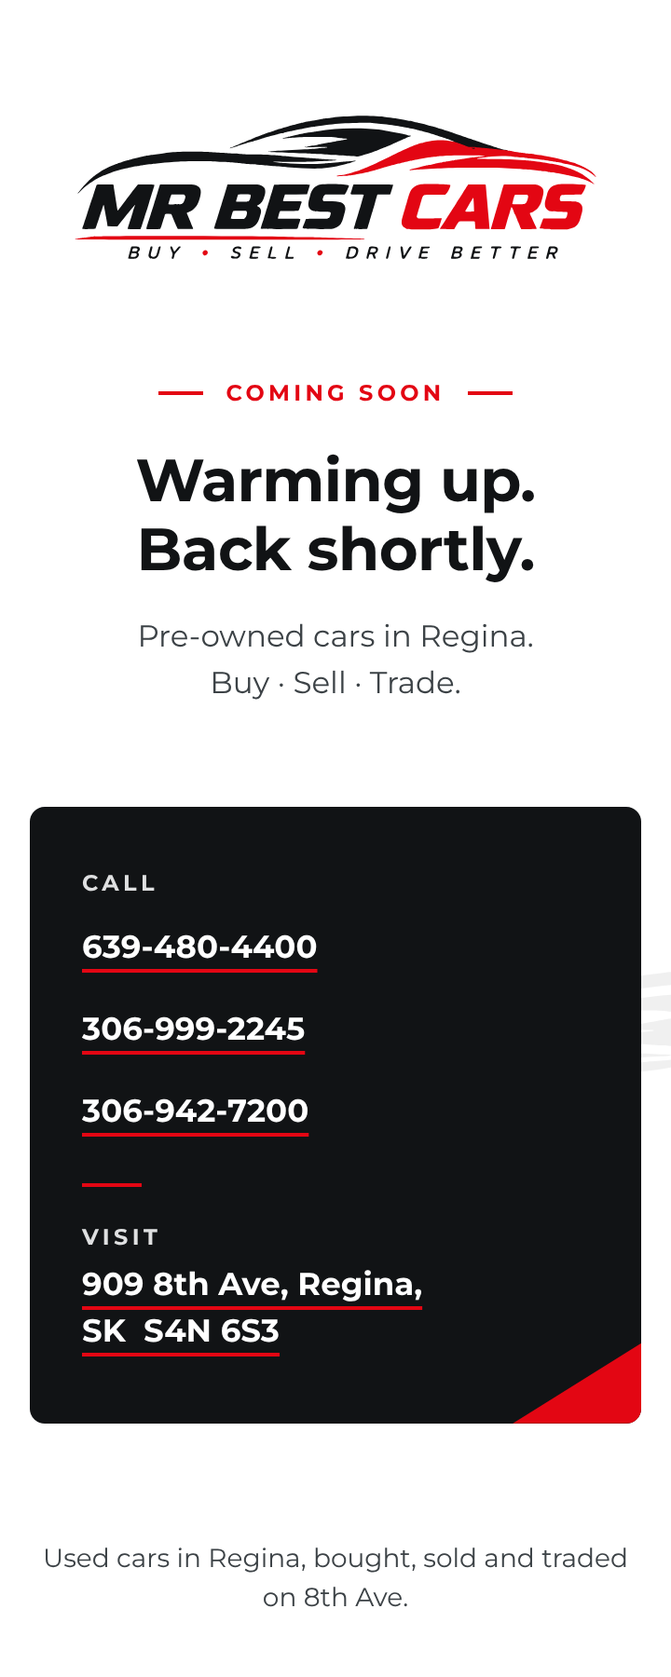
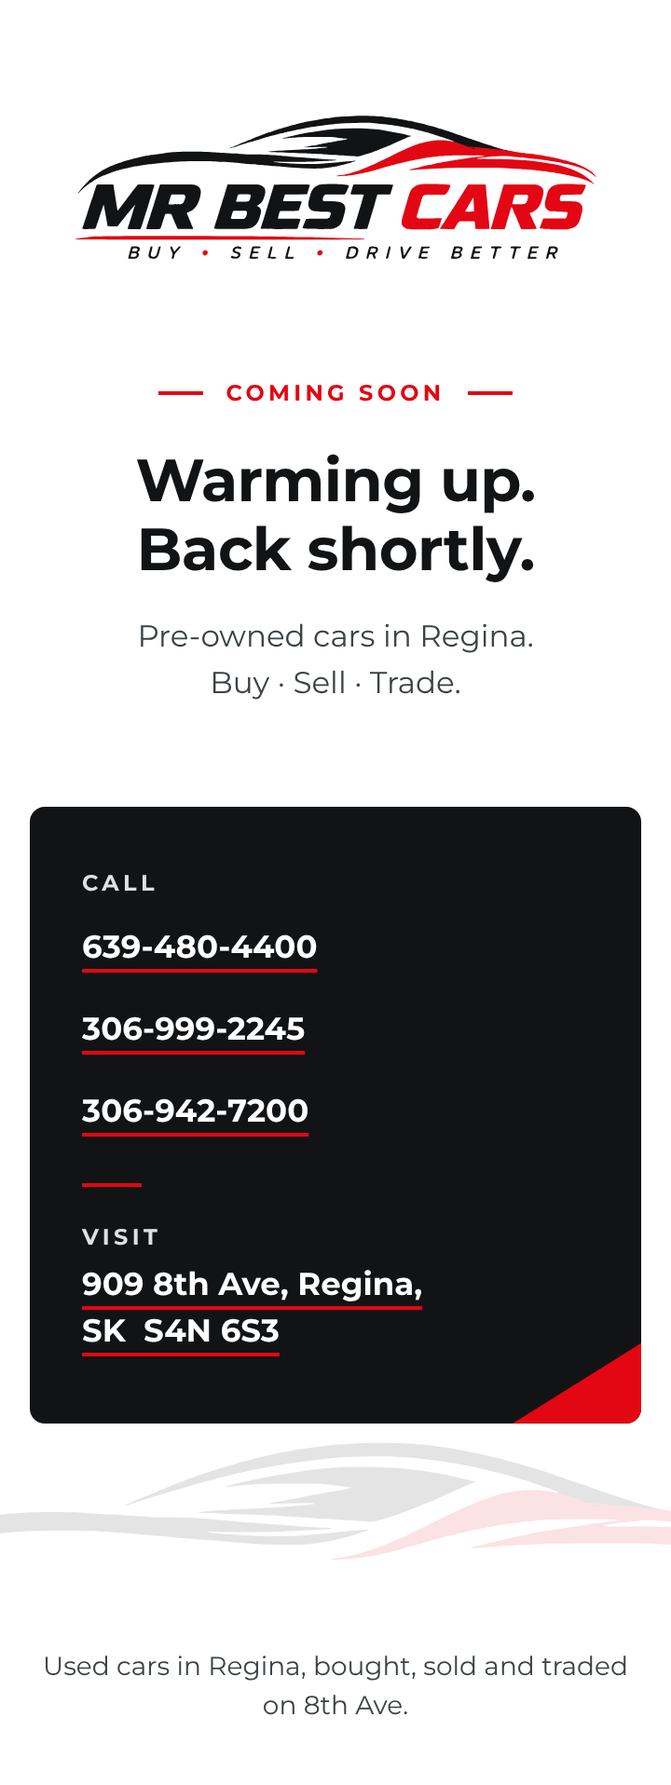
Preview: anchor sedan mark to contact card so it shows on phones
Claude-Session: https://claude.ai/code/session_0111nycAP5oJUybwEeT2RRwK

diff --git a/site/swym/preview-bg/index.html b/site/swym/preview-bg/index.html
@@ -50,11 +50,13 @@ h1{margin-top:20px;max-width:16ch;font-size:clamp(2rem,1.6rem + 1.6vw,2.5rem);fo
 .links a:hover{text-decoration-color:var(--white)}
 a:focus-visible{outline:2px solid var(--white);outline-offset:3px;border-radius:4px}
 footer{padding:0 16px 32px;text-align:center;color:var(--slate);font-size:.875rem}
-body{position:relative}
-.bg-art{position:absolute;inset:0;z-index:0;overflow:hidden;pointer-events:none}
-.bg-sedan{position:absolute;width:min(1180px,88vw);height:auto;right:-30vw;bottom:clamp(120px,14vh,180px);opacity:.07}
-.site-header,main,footer{position:relative;z-index:1}
-@media (max-width:767px){.bg-sedan{width:150vw;right:-75vw;bottom:auto;top:520px;opacity:.06}}
+main{overflow:hidden}
+.card-wrap{position:relative;width:100%;max-width:460px;margin-top:clamp(40px,7vh,64px)}
+.card-wrap .card{margin-top:0}
+.bg-sedan{position:absolute;z-index:-1;pointer-events:none;height:auto;opacity:.08;width:1100px;left:52%;bottom:6%}
+.card{z-index:0}
+main{isolation:isolate}
+@media (max-width:767px){main{padding-bottom:120px}.bg-sedan{width:150vw;left:-30vw;bottom:-92px;opacity:.11}}
 .veil{display:none}
 html.intro .veil{display:block;position:fixed;inset:0;z-index:10;background:var(--white);animation:mbc-out .4s 2.5s forwards}
 html.intro .site-header{position:relative;z-index:11}
@@ -72,7 +74,7 @@ html.intro #car-wipe-rect,html.intro #underline-wipe-rect{transform:scaleX(0);an
 </head>
 <body>
 <div class="veil" aria-hidden="true"></div>
-<div class="bg-art" aria-hidden="true"><svg class="bg-sedan" viewBox="0 0 1138 172" aria-hidden="true" focusable="false"><path class="k" d="M7.2 165.4C12.4 160.2 19.2 154.3 24.5 150.6C29.3 147.2 37 142 37.3 142C37.5 142 38.2 141.6 38.9 141.1C40.2 140.2 44.2 137.9 48 135.9C49 135.4 51 134.5 52.6 133.8C54.2 133.1 56.7 132 58.1 131.3C59.6 130.7 61.5 129.9 62.5 129.5C63.5 129.2 64.7 128.7 65.2 128.5C65.8 128.3 67.5 127.6 69.1 127C70.7 126.5 73.2 125.6 74.6 125C79.8 123.1 92.8 119.3 100 117.5C103.5 116.6 114.8 114.1 117.8 113.5C119.4 113.2 121.7 112.7 122.8 112.5C123.8 112.2 126.2 111.8 128 111.5C129.8 111.2 133.2 110.6 135.5 110.2C137.8 109.8 141.7 109.2 144 108.9C148.7 108.4 152.4 107.9 157.8 107C162.8 106.2 169 105.5 183.2 104C193.7 102.9 208 101.8 222.8 100.9C237.1 100.1 286.7 99.8 296.8 100.5C301.4 100.8 311.1 101.4 318.2 101.8C330.8 102.6 333.4 102.8 348 103.9C351.7 104.2 357.9 104.7 361.8 105C365.6 105.3 370.9 105.8 373.5 106C376.1 106.3 380.7 106.7 383.8 107C386.8 107.3 391.5 107.7 394.2 108C410 109.5 412.2 109.6 429.8 111C438.2 111.6 453.7 112.9 460.5 113.5C490.6 116.1 525.2 117 539.8 115.6C553.3 114.2 561.5 113.1 568.8 111.5C579.6 109.1 588.4 106.8 594 104.9C595.6 104.4 597.1 104 597.4 104C597.7 104 599 103.6 600.1 103C602.5 101.9 608.4 100 609.3 100C609.6 100 610 99.7 610.1 99.4C610.3 98.9 609.1 98.9 604.1 99.4C600.6 99.7 594.4 100.2 590.2 100.5C586.1 100.8 581.1 101.3 579 101.5C568.1 102.9 560.5 103.7 554 104.1C550 104.3 544.6 104.7 542 105C520.1 106.9 483.1 106.6 455.8 104.3C453.8 104.1 448.5 103.8 444 103.5C434.8 102.9 429 102.1 429 101.3C429 101 432.1 101 437.9 101.3C451.1 102 491.1 101.8 508.2 101.1C516.5 100.7 528.8 100.2 535.5 100C552.5 99.4 566 98.6 567.8 98.1L569.2 97.6L568 97.3C567.3 97.2 564.3 96.9 561.2 96.8C550.4 96.3 537.1 95.5 531 95C527.6 94.7 521.5 94.3 517.5 94C513.5 93.7 507.3 93.3 503.8 93C490 91.9 479.9 91.1 465 90C461.8 89.8 456.7 89.3 453.5 89.1C450.3 88.8 445.1 88.3 441.8 88C438.4 87.7 433.4 87.3 430.5 87C417.1 85.7 409.3 85.3 390.2 85.2C379 85.2 366.6 84.9 362.8 84.6C358.9 84.3 351.9 83.8 347.2 83.5C342.6 83.2 335.1 82.8 330.8 82.5C326.4 82.2 321.2 81.9 319.2 81.8C313.9 81.5 299.2 80.6 290.2 80C276.9 79.1 246.4 78.8 231.2 79.4C213.7 80.2 205.9 80.8 190.2 82.5C183.4 83.3 168.4 85.4 162 86.5C156.1 87.5 147.7 89.1 145.8 89.5C142.3 90.2 139.4 90.9 136.5 91.5C133.8 92 132.2 92.4 128 93.5C126.8 93.8 124.9 94.3 123.9 94.5C119.3 95.7 118 96 114.5 97C112.4 97.6 110 98.3 109 98.5C103.1 100.1 88.7 104.8 87.4 105.5C86.9 105.8 86.2 106 85.8 106C85.3 106 84.6 106.2 84.1 106.5C82.9 107.1 80.1 108.3 77.5 109.3C68.6 112.6 56 119.2 47 125.4C37.7 131.8 37.6 131.9 29.3 139C26.1 141.7 16.2 151.9 12.5 156.2C1.6 169.3 0.3 171 1.4 171C1.6 171 4.2 168.5 7.2 165.4ZM617.2 89.5C618.3 89.2 620.1 88.7 621.2 88.4C623.4 87.9 629.5 86.2 631.5 85.5C632.2 85.3 634.4 84.6 636.5 84C641.1 82.6 656.1 77.1 662.2 74.5C662.8 74.2 664.4 73.7 665.8 73.2C667.1 72.8 669 72.1 669.9 71.7C670.8 71.3 672.3 70.6 673.4 70.2C674.4 69.8 675.9 69.1 676.7 68.7C677.5 68.3 678.4 68 678.6 68C678.9 68 680.5 67.4 682.2 66.6C685.1 65.2 687 64.4 691 62.6C692 62.2 694.6 61 696.8 59.9C699.1 58.9 701 58 701.2 58C701.4 58 703.2 57.2 705.1 56.3C707.1 55.4 709.8 54.1 711.1 53.6C715.7 51.5 718 50.5 720.2 49.5C721.4 49 724.1 48 726.3 47.2C728.5 46.5 730.6 45.8 730.9 45.7C732.1 45.3 730.6 44 729 44C728.2 44 726.2 43.6 724.6 43.2C723.1 42.8 721 42.2 720 42C719 41.8 716.3 41.1 714 40.5C703.8 38.1 690.8 35.5 681 34C679.2 33.7 676.5 33.3 675 33C655.1 29.7 640 28.5 612.2 28.1C580.4 27.7 554.3 29.6 525.5 34.5C524 34.7 521 35.2 518.8 35.5C514.2 36.1 509.8 36.8 506.2 37.5C501.2 38.5 485.7 41.6 484 42C480.4 42.8 476.7 43.6 474.6 44.1C471.7 44.7 468.6 45.3 466.2 45.9C465.1 46.2 461.2 47 457.5 47.8C451.1 49.1 449.5 49.6 450.1 50.3C450.3 50.4 453.5 50.2 457.3 49.8C464.2 49 469.7 48.6 486.8 47.4C492.5 47 506.5 46.8 525 46.8C556.8 46.8 561.4 47 577.8 49.5C579.4 49.7 583.2 50.2 586.1 50.6C589.1 50.9 591.5 51.3 591.5 51.5C591.5 51.8 588.5 52.5 580.8 54C579.6 54.2 576.5 54.7 573.8 55.2C571 55.6 567.7 56.2 566.5 56.5C563.9 57.1 556.4 58.4 552.5 59C551 59.2 546.8 60 543.2 60.7C539.7 61.4 535 62.4 532.8 62.8C530.5 63.3 527.7 63.8 526.5 64.1C524 64.6 519.7 65.3 515.2 66C513.6 66.2 511.2 66.7 510 67C508.8 67.3 506 67.8 503.8 68.2C501.7 68.6 499.8 69.1 499.6 69.2C498.8 70 500.9 70.1 510.4 69.6C523.1 68.9 549.5 68.8 549.5 69.5C549.5 70.1 547.5 70.4 539.2 71C535.4 71.3 530.3 71.7 528 72C516.4 73.3 508 73.9 481.5 75C451.3 76.4 437.4 77.2 421.9 78.8C416.4 79.3 418 80 424.9 80C428.4 80 436 80.2 441.8 80.5C457.7 81.3 487.2 82.5 497.2 82.8C502.2 82.9 507.9 83.2 509.9 83.5C511.9 83.8 515.2 84 517.3 84C519.3 84 523.7 84.2 527.1 84.5C530.5 84.7 537.6 85.2 543 85.5C548.4 85.8 555.8 86.3 559.5 86.5C563.2 86.8 570 87.2 574.5 87.5C579 87.8 586.4 88.2 590.8 88.5C616.2 90.2 614.7 90.1 617.2 89.5ZM942.2 77.7C943.6 77.1 943 76.1 941.1 75.8C937 75.2 933.5 74.5 929.7 73.3C927.5 72.6 925.5 72 925.1 72C924.8 72 922.9 71.5 921.1 70.9C915.8 69.3 908.8 67 907.8 66.5C907.2 66.3 905.2 65.6 903.2 65.1C898.8 63.7 871.8 54.8 868.9 53.7C867.7 53.3 866.3 52.7 865.8 52.5C865.2 52.3 862.6 51.4 860 50.5C857.4 49.7 854.8 48.8 854.2 48.5C853.3 48.1 842.9 44.5 827 39.2C823.3 38 819.8 36.8 819.2 36.5C818 36 801.1 30.5 796 29.1C793.9 28.4 790.1 27.3 787.5 26.5C784.9 25.7 781.4 24.7 779.8 24.2C778.1 23.8 776.1 23.2 775.2 23C774.4 22.8 772.3 22.2 770.5 21.8C768.7 21.3 765.8 20.5 764 20C759.5 18.7 757.2 18.1 754 17.5C752.5 17.2 750.6 16.7 749.8 16.5C748.3 16.1 744.4 15.2 736.2 13.2C734.3 12.8 731.6 12.2 730.2 12C728.9 11.8 725.3 11.1 722.2 10.5C702.3 6.6 693.2 5.2 672.8 3C656.9 1.2 625.9 0.3 607.5 1C584.9 1.9 566 3.3 555.2 5C553.3 5.3 549.5 5.8 546.8 6C544 6.3 540.4 6.7 538.8 7C537.1 7.3 534.5 7.7 533 8C529.9 8.5 526.5 9.2 522.8 10C521.4 10.3 518.7 10.7 516.8 11C514.8 11.2 512.7 11.6 512 11.7C510.4 12.1 507.6 12.8 504 13.5C502.5 13.8 499.4 14.5 497.2 15C495.1 15.5 491.9 16.2 490.2 16.5C488.6 16.8 486.7 17.3 486 17.5C485.3 17.7 483.6 18.2 482.2 18.5C480.9 18.8 479.3 19.3 478.8 19.5C477.8 19.9 472.8 21.1 468.8 22C467.6 22.2 465.3 22.9 463.5 23.5C461.7 24.1 458.7 25 456.8 25.5C444.1 29 437.8 30.9 431.8 33.1C430.6 33.5 428.1 34.4 426 35C423.9 35.7 422 36.4 421.8 36.6C421.5 36.8 420.9 37 420.5 37C420 37 418.5 37.4 417.2 38C415.8 38.5 413.5 39.4 412 39.9C410.5 40.5 406.8 41.8 403.8 43C400.7 44.2 396.4 45.8 394.2 46.6C392.1 47.4 389.7 48.3 389.1 48.5C388.5 48.8 387.5 49.2 386.9 49.4C386.3 49.7 384.6 50.4 383.2 51C380.4 52.3 379.5 52.6 377 53.5C376 53.8 374.4 54.5 373.2 55C370.2 56.4 364.2 58.9 362.8 59.5C362.2 59.7 361.1 60.1 360.4 60.4C359.6 60.7 358.5 61.2 357.9 61.4C357.3 61.7 355.9 62.3 354.8 62.8C351.4 64.2 349.3 65.1 348.2 65.5C347.7 65.7 345.2 66.8 342.7 67.9C340.1 69.1 337.9 70 337.6 70C336.9 70 334.5 71.2 334.5 71.6C334.5 72.4 336.1 71.9 346.4 68.6C364.5 62.6 374.4 59.5 381.8 57.4C382.9 57.1 385 56.5 386.5 56C388 55.5 390.1 54.9 391.2 54.6C393.8 53.9 399.4 52.2 403.2 51.1C404.9 50.6 407.3 49.9 408.5 49.5C409.7 49.1 411.8 48.5 413 48.1C414.2 47.7 417.7 46.8 420.8 46C423.8 45.2 427.9 44.1 430 43.6C437.4 41.6 445.8 39.4 447.8 39C448.9 38.7 451.4 38.1 453.5 37.6C455.6 37 458.5 36.3 460 35.9C461.5 35.5 464.1 34.9 465.8 34.5C467.4 34.2 470.6 33.5 472.8 33C480.2 31.3 484.7 30.4 487.2 30C488.6 29.8 491.4 29.3 493.5 28.9C495.6 28.4 499.8 27.6 503 27.1C506.2 26.5 510.9 25.7 513.5 25.2C516.1 24.8 519.9 24.2 522 23.9C524.1 23.7 527.3 23.3 529.2 23C536.1 22 539.8 21.5 543.8 21C546 20.7 549.5 20.3 551.8 20C571.1 17.5 587.4 16.5 612.5 16.1C631.3 15.9 636.9 16.1 656 17.5C665.4 18.2 690.3 21.1 698.8 22.5C704.2 23.4 711.7 24.6 714 25.1C715.2 25.3 717.5 25.7 719 26C724.7 27 726.9 27.4 732.8 28.7C741.7 30.7 743 31 745.8 31.8C748.1 32.5 752.8 33.6 759.2 35C762 35.6 764.2 36.2 768 37.5C769.8 38.1 772.9 39 775 39.6C781.4 41.2 798 46.5 800.2 47.5C800.8 47.8 804.1 48.9 807.5 50C810.9 51.2 814.2 52.3 814.8 52.5C816.1 53.1 820.9 54.8 823.1 55.6C825.1 56.2 825.6 57 824.1 57C822.3 57 825.2 58.5 830.5 60.2C837.5 62.5 842.6 64.4 849 67.1C857.6 70.7 857.3 70.7 860.5 70.3C862.8 70.1 863.5 70.2 863.5 70.6C863.4 71 863.4 71.5 863.4 71.9C863.5 72.8 866.5 74.5 868.1 74.5C870.1 74.5 873.4 73.1 873.7 72.1C874 71.1 874.9 71.1 890 72.3C898.9 73 901.7 73.3 911 74.5C915.3 75 917.7 75.3 930 76.7C933.7 77.2 937.6 77.5 938.6 77.4C939.6 77.4 940.6 77.5 940.8 77.7C941.2 78.1 941.2 78.1 942.2 77.7Z"/><path class="r" d="M1133 150.1C1133 149.5 1126.4 143.2 1121 138.7C1116.1 134.6 1106 127.8 1102 125.9C1093.9 122.1 1087 119 1086.6 119C1086.4 119 1085.3 118.6 1084.2 118.1C1082.2 117.1 1075.6 114.7 1072.8 114C1071.9 113.8 1069.7 113.1 1067.8 112.5C1061.6 110.6 1057.3 109.4 1055 109C1053.8 108.7 1051.7 108.3 1050.5 108C1049.3 107.7 1047 107.3 1045.5 107C1044 106.7 1041.7 106.2 1040.5 105.9C1035.9 105 1033.1 104.5 1029.5 104C1027.4 103.7 1024.5 103.3 1023 103C1019.4 102.3 1011.8 101.3 1001.5 100C999.2 99.7 994.4 99.2 991 99C987.6 98.7 982.3 98.3 979.2 98C957.1 95.9 939.7 95.3 907.4 95.3C871.5 95.2 870.2 95.1 884.9 92.5C886.5 92.2 891.2 91.6 895.5 91.2C899.8 90.7 904.9 90.2 907 89.9C920.5 88.4 935.5 88.2 947.5 89.5C950.1 89.8 955.7 90.3 960 90.8C964.3 91.2 970.2 91.8 973.2 92C976.3 92.2 980.4 92.7 982.5 93C984.6 93.3 988.7 93.8 991.8 94C1005.3 95.2 1014.5 96.2 1018.5 97C1020 97.3 1023.3 97.7 1025.8 98C1033.4 98.9 1038.3 99.6 1045.2 101C1046.6 101.3 1050.3 101.9 1053.5 102.4C1056.7 103 1061.4 103.9 1064 104.5C1066.6 105 1070.4 105.9 1072.5 106.3C1085.5 109 1096.1 112.1 1108.9 117C1110.7 117.7 1117.5 121.1 1121.7 123.5C1125.1 125.4 1131.7 130.3 1134.7 133.1C1135.8 134.2 1136.7 135 1136.8 135C1138.4 135 1131.5 126.8 1126.5 122.8C1118 115.9 1105.5 109.4 1093.5 105.5C1092 105 1089.8 104.3 1088.8 103.9C1087.7 103.5 1085.8 102.9 1084.6 102.6C1083.5 102.3 1081.5 101.7 1080.4 101.4C1079.2 101.1 1077.8 100.7 1077.2 100.5C1076.3 100.1 1073.8 99.4 1071 98.7C1070.3 98.6 1065.4 97.3 1060 95.9C1054.6 94.6 1049.1 93.2 1047.6 93C1044.3 92.4 1039.9 91.5 1037 91C1034.2 90.4 1029.6 89.6 1025.8 89C1024.1 88.7 1021.7 88.3 1020.5 88C1019.3 87.7 1016.5 87.3 1014.2 87C1006.7 86 1003.7 85.5 1001 85C999.5 84.7 996.2 84.2 993.8 84C991.3 83.7 987.7 83.3 985.8 83C983.8 82.8 980.3 82.3 978 82C975.7 81.7 971.8 81.3 969.5 81C962.4 80.2 955.7 79.1 950.8 77.8C949.1 77.4 946.8 77 945.7 77C944.5 77 943.4 76.8 943.3 76.6C943.2 76.4 941.5 76.2 939.7 76.1C936.2 76 923.8 74.6 911 73C901 71.7 898.7 71.5 888.5 70.8C882.6 70.3 876 69.7 873.8 69.4C871.5 69.1 866.8 68.8 863.2 68.8C859.7 68.7 856.3 68.5 855.8 68.3C855.2 68.1 854.3 67.7 853.8 67.5C853.2 67.3 851.9 66.8 850.8 66.3C849.6 65.9 847.5 65 846 64.3C832.1 58 812.4 54 795 54C788.7 54 779.9 54.8 773.4 56C771.8 56.3 769.3 56.7 767.9 57C762.6 57.9 761.7 58.1 759 59C757.5 59.5 755.2 60.1 754 60.5C749.8 61.7 740 65 736.1 66.5C735 67 733.5 67.6 731.4 68.4C729.4 69.3 726.3 70.6 723.2 72C720.3 73.4 717.4 74.7 713 76.6C709.8 78 703.3 81.1 688.5 88.4C681.5 91.8 670.6 97.2 664.2 100.3C651.7 106.4 646.2 109 645.8 109C645.6 109 644.1 109.7 642.2 110.5C640.4 111.3 638.9 112 638.7 112C638.6 112 637.1 112.6 635.4 113.4C633.7 114.2 631.4 115.2 630.2 115.5C629.1 115.9 628 116.4 627.8 116.6C627.5 116.8 627 117 626.6 117C626.3 117 624.9 117.5 623.6 118C619.7 119.8 619.4 119.9 616 121C614.2 121.5 611 122.6 608.8 123.3C606.5 124 604 124.8 603 125.1C602 125.3 600.5 125.8 599.5 126.1C597.7 126.6 591.5 128.2 587.8 129C586.6 129.3 584.4 129.7 582.8 130C581.1 130.2 578.1 130.7 576 131C570.4 131.8 568.8 132.2 568.6 132.8C568.4 133.4 575 133.3 583.2 132.5C594.8 131.4 599.4 130.9 602.2 130.5C603.9 130.2 606.9 129.8 609 129.5C614.3 128.7 618.4 128 621 127.4C622.2 127.2 624.1 126.7 625.2 126.5C630.3 125.4 637.1 123.8 640.2 122.9C642.2 122.4 645.7 121.5 648 120.9C650.3 120.3 654.4 119.2 657 118.4C659.6 117.6 662.1 117 662.5 117C663 117 663.5 116.8 663.8 116.6C664 116.3 666.3 115.6 668.8 115C671.2 114.4 673.5 113.7 673.8 113.5C674 113.3 674.8 113 675.5 112.9C677.1 112.6 688.5 109.5 696.6 107.3C699.4 106.5 700.4 106.2 704 105.4C705.2 105.1 707.7 104.5 709.5 104C711.3 103.5 714 102.8 715.5 102.5C720.2 101.5 726.7 100 728.3 99.5C729.1 99.2 730.7 99 731.9 99C733 99 734.1 98.8 734.2 98.6C734.3 98.4 736.4 97.9 738.9 97.5C741.3 97.2 743.6 96.8 744 96.6C744.4 96.5 745.8 96.2 747 96C748.2 95.8 750.5 95.4 752.1 95.1C760.5 93.4 767 92.4 774.8 91.5C777.5 91.2 780.9 90.7 782.2 90.5C783.6 90.2 786.3 89.9 788.2 89.8C790.2 89.6 794 89.2 796.8 89C808.3 87.7 816.6 87.4 841.2 87.2C866.5 87 891.1 87.4 891.8 88.1C892.5 88.8 891.8 88.9 884.7 89.7C880.9 90.2 876.4 90.7 874.8 91C873.1 91.3 869.7 91.7 867.2 92C864.8 92.3 861.4 92.7 859.8 93C853.6 94.1 850.8 94.5 847.1 95.1C845 95.3 841.9 95.8 840.2 96C838.6 96.3 835.5 96.7 833.2 97C831 97.3 827.9 97.7 826.2 98C822.3 98.6 811.5 100.4 808 101C806.5 101.3 804.1 101.7 802.6 101.8C801.2 102 799.9 102.3 799.7 102.6C799.6 102.8 798.7 103 797.8 103C797 103 794.7 103.4 792.7 103.8C790.8 104.2 786.2 105.2 782.5 106C778.8 106.8 773.6 107.9 771 108.5C768.4 109.1 765.2 109.8 764 110C761.5 110.5 758 111.3 749.8 113.5C746.7 114.3 742.1 115.4 739.5 116C729 118.4 724.5 120.4 730.9 119.8C735.3 119.4 746.3 118.6 756 118C765.3 117.5 778.2 116.7 789.8 116C807.8 114.8 833.3 114.3 873.5 114.3C921.6 114.2 936.7 114.7 967 117C971 117.3 977.3 117.8 981 118C987.7 118.4 1003.6 119.9 1012.2 121C1014.7 121.3 1019.6 121.9 1023 122.3C1026.4 122.7 1030.5 123.3 1032 123.5C1033.5 123.8 1037.5 124.4 1040.8 124.8C1044 125.2 1048.1 125.7 1049.8 126C1061.4 127.8 1080.1 131.6 1082.2 132.5C1083.1 132.8 1086.3 133.6 1092.5 135C1094.1 135.4 1100.3 137 1103.8 138C1105.7 138.5 1115.5 141.9 1116.8 142.5C1120.5 144.1 1129.5 148.6 1130.8 149.5C1132.4 150.6 1133 150.7 1133 150.1ZM865.4 72L864.2 71L868.4 71C872.7 71 873.6 71.5 870.9 72.5C868.6 73.3 866.8 73.1 865.4 72Z"/></svg></div>
+
 <header class="site-header">
   <div class="logo" id="logo">
   <svg class="mbc-logo" viewBox="0 0 1144 315" role="img" aria-labelledby="mbc-logo-title">
@@ -103,6 +105,8 @@ html.intro #car-wipe-rect,html.intro #underline-wipe-rect{transform:scaleX(0);an
   <p class="label">Coming soon</p>
   <h1>Warming up. Back shortly.</h1>
   <p class="lead"><span class="nw">Pre-owned cars in Regina.</span> <span class="nw">Buy · Sell · Trade.</span></p>
+  <div class="card-wrap">
+  <svg class="bg-sedan" viewBox="0 0 1138 172" aria-hidden="true" focusable="false"><path class="k" d="M7.2 165.4C12.4 160.2 19.2 154.3 24.5 150.6C29.3 147.2 37 142 37.3 142C37.5 142 38.2 141.6 38.9 141.1C40.2 140.2 44.2 137.9 48 135.9C49 135.4 51 134.5 52.6 133.8C54.2 133.1 56.7 132 58.1 131.3C59.6 130.7 61.5 129.9 62.5 129.5C63.5 129.2 64.7 128.7 65.2 128.5C65.8 128.3 67.5 127.6 69.1 127C70.7 126.5 73.2 125.6 74.6 125C79.8 123.1 92.8 119.3 100 117.5C103.5 116.6 114.8 114.1 117.8 113.5C119.4 113.2 121.7 112.7 122.8 112.5C123.8 112.2 126.2 111.8 128 111.5C129.8 111.2 133.2 110.6 135.5 110.2C137.8 109.8 141.7 109.2 144 108.9C148.7 108.4 152.4 107.9 157.8 107C162.8 106.2 169 105.5 183.2 104C193.7 102.9 208 101.8 222.8 100.9C237.1 100.1 286.7 99.8 296.8 100.5C301.4 100.8 311.1 101.4 318.2 101.8C330.8 102.6 333.4 102.8 348 103.9C351.7 104.2 357.9 104.7 361.8 105C365.6 105.3 370.9 105.8 373.5 106C376.1 106.3 380.7 106.7 383.8 107C386.8 107.3 391.5 107.7 394.2 108C410 109.5 412.2 109.6 429.8 111C438.2 111.6 453.7 112.9 460.5 113.5C490.6 116.1 525.2 117 539.8 115.6C553.3 114.2 561.5 113.1 568.8 111.5C579.6 109.1 588.4 106.8 594 104.9C595.6 104.4 597.1 104 597.4 104C597.7 104 599 103.6 600.1 103C602.5 101.9 608.4 100 609.3 100C609.6 100 610 99.7 610.1 99.4C610.3 98.9 609.1 98.9 604.1 99.4C600.6 99.7 594.4 100.2 590.2 100.5C586.1 100.8 581.1 101.3 579 101.5C568.1 102.9 560.5 103.7 554 104.1C550 104.3 544.6 104.7 542 105C520.1 106.9 483.1 106.6 455.8 104.3C453.8 104.1 448.5 103.8 444 103.5C434.8 102.9 429 102.1 429 101.3C429 101 432.1 101 437.9 101.3C451.1 102 491.1 101.8 508.2 101.1C516.5 100.7 528.8 100.2 535.5 100C552.5 99.4 566 98.6 567.8 98.1L569.2 97.6L568 97.3C567.3 97.2 564.3 96.9 561.2 96.8C550.4 96.3 537.1 95.5 531 95C527.6 94.7 521.5 94.3 517.5 94C513.5 93.7 507.3 93.3 503.8 93C490 91.9 479.9 91.1 465 90C461.8 89.8 456.7 89.3 453.5 89.1C450.3 88.8 445.1 88.3 441.8 88C438.4 87.7 433.4 87.3 430.5 87C417.1 85.7 409.3 85.3 390.2 85.2C379 85.2 366.6 84.9 362.8 84.6C358.9 84.3 351.9 83.8 347.2 83.5C342.6 83.2 335.1 82.8 330.8 82.5C326.4 82.2 321.2 81.9 319.2 81.8C313.9 81.5 299.2 80.6 290.2 80C276.9 79.1 246.4 78.8 231.2 79.4C213.7 80.2 205.9 80.8 190.2 82.5C183.4 83.3 168.4 85.4 162 86.5C156.1 87.5 147.7 89.1 145.8 89.5C142.3 90.2 139.4 90.9 136.5 91.5C133.8 92 132.2 92.4 128 93.5C126.8 93.8 124.9 94.3 123.9 94.5C119.3 95.7 118 96 114.5 97C112.4 97.6 110 98.3 109 98.5C103.1 100.1 88.7 104.8 87.4 105.5C86.9 105.8 86.2 106 85.8 106C85.3 106 84.6 106.2 84.1 106.5C82.9 107.1 80.1 108.3 77.5 109.3C68.6 112.6 56 119.2 47 125.4C37.7 131.8 37.6 131.9 29.3 139C26.1 141.7 16.2 151.9 12.5 156.2C1.6 169.3 0.3 171 1.4 171C1.6 171 4.2 168.5 7.2 165.4ZM617.2 89.5C618.3 89.2 620.1 88.7 621.2 88.4C623.4 87.9 629.5 86.2 631.5 85.5C632.2 85.3 634.4 84.6 636.5 84C641.1 82.6 656.1 77.1 662.2 74.5C662.8 74.2 664.4 73.7 665.8 73.2C667.1 72.8 669 72.1 669.9 71.7C670.8 71.3 672.3 70.6 673.4 70.2C674.4 69.8 675.9 69.1 676.7 68.7C677.5 68.3 678.4 68 678.6 68C678.9 68 680.5 67.4 682.2 66.6C685.1 65.2 687 64.4 691 62.6C692 62.2 694.6 61 696.8 59.9C699.1 58.9 701 58 701.2 58C701.4 58 703.2 57.2 705.1 56.3C707.1 55.4 709.8 54.1 711.1 53.6C715.7 51.5 718 50.5 720.2 49.5C721.4 49 724.1 48 726.3 47.2C728.5 46.5 730.6 45.8 730.9 45.7C732.1 45.3 730.6 44 729 44C728.2 44 726.2 43.6 724.6 43.2C723.1 42.8 721 42.2 720 42C719 41.8 716.3 41.1 714 40.5C703.8 38.1 690.8 35.5 681 34C679.2 33.7 676.5 33.3 675 33C655.1 29.7 640 28.5 612.2 28.1C580.4 27.7 554.3 29.6 525.5 34.5C524 34.7 521 35.2 518.8 35.5C514.2 36.1 509.8 36.8 506.2 37.5C501.2 38.5 485.7 41.6 484 42C480.4 42.8 476.7 43.6 474.6 44.1C471.7 44.7 468.6 45.3 466.2 45.9C465.1 46.2 461.2 47 457.5 47.8C451.1 49.1 449.5 49.6 450.1 50.3C450.3 50.4 453.5 50.2 457.3 49.8C464.2 49 469.7 48.6 486.8 47.4C492.5 47 506.5 46.8 525 46.8C556.8 46.8 561.4 47 577.8 49.5C579.4 49.7 583.2 50.2 586.1 50.6C589.1 50.9 591.5 51.3 591.5 51.5C591.5 51.8 588.5 52.5 580.8 54C579.6 54.2 576.5 54.7 573.8 55.2C571 55.6 567.7 56.2 566.5 56.5C563.9 57.1 556.4 58.4 552.5 59C551 59.2 546.8 60 543.2 60.7C539.7 61.4 535 62.4 532.8 62.8C530.5 63.3 527.7 63.8 526.5 64.1C524 64.6 519.7 65.3 515.2 66C513.6 66.2 511.2 66.7 510 67C508.8 67.3 506 67.8 503.8 68.2C501.7 68.6 499.8 69.1 499.6 69.2C498.8 70 500.9 70.1 510.4 69.6C523.1 68.9 549.5 68.8 549.5 69.5C549.5 70.1 547.5 70.4 539.2 71C535.4 71.3 530.3 71.7 528 72C516.4 73.3 508 73.9 481.5 75C451.3 76.4 437.4 77.2 421.9 78.8C416.4 79.3 418 80 424.9 80C428.4 80 436 80.2 441.8 80.5C457.7 81.3 487.2 82.5 497.2 82.8C502.2 82.9 507.9 83.2 509.9 83.5C511.9 83.8 515.2 84 517.3 84C519.3 84 523.7 84.2 527.1 84.5C530.5 84.7 537.6 85.2 543 85.5C548.4 85.8 555.8 86.3 559.5 86.5C563.2 86.8 570 87.2 574.5 87.5C579 87.8 586.4 88.2 590.8 88.5C616.2 90.2 614.7 90.1 617.2 89.5ZM942.2 77.7C943.6 77.1 943 76.1 941.1 75.8C937 75.2 933.5 74.5 929.7 73.3C927.5 72.6 925.5 72 925.1 72C924.8 72 922.9 71.5 921.1 70.9C915.8 69.3 908.8 67 907.8 66.5C907.2 66.3 905.2 65.6 903.2 65.1C898.8 63.7 871.8 54.8 868.9 53.7C867.7 53.3 866.3 52.7 865.8 52.5C865.2 52.3 862.6 51.4 860 50.5C857.4 49.7 854.8 48.8 854.2 48.5C853.3 48.1 842.9 44.5 827 39.2C823.3 38 819.8 36.8 819.2 36.5C818 36 801.1 30.5 796 29.1C793.9 28.4 790.1 27.3 787.5 26.5C784.9 25.7 781.4 24.7 779.8 24.2C778.1 23.8 776.1 23.2 775.2 23C774.4 22.8 772.3 22.2 770.5 21.8C768.7 21.3 765.8 20.5 764 20C759.5 18.7 757.2 18.1 754 17.5C752.5 17.2 750.6 16.7 749.8 16.5C748.3 16.1 744.4 15.2 736.2 13.2C734.3 12.8 731.6 12.2 730.2 12C728.9 11.8 725.3 11.1 722.2 10.5C702.3 6.6 693.2 5.2 672.8 3C656.9 1.2 625.9 0.3 607.5 1C584.9 1.9 566 3.3 555.2 5C553.3 5.3 549.5 5.8 546.8 6C544 6.3 540.4 6.7 538.8 7C537.1 7.3 534.5 7.7 533 8C529.9 8.5 526.5 9.2 522.8 10C521.4 10.3 518.7 10.7 516.8 11C514.8 11.2 512.7 11.6 512 11.7C510.4 12.1 507.6 12.8 504 13.5C502.5 13.8 499.4 14.5 497.2 15C495.1 15.5 491.9 16.2 490.2 16.5C488.6 16.8 486.7 17.3 486 17.5C485.3 17.7 483.6 18.2 482.2 18.5C480.9 18.8 479.3 19.3 478.8 19.5C477.8 19.9 472.8 21.1 468.8 22C467.6 22.2 465.3 22.9 463.5 23.5C461.7 24.1 458.7 25 456.8 25.5C444.1 29 437.8 30.9 431.8 33.1C430.6 33.5 428.1 34.4 426 35C423.9 35.7 422 36.4 421.8 36.6C421.5 36.8 420.9 37 420.5 37C420 37 418.5 37.4 417.2 38C415.8 38.5 413.5 39.4 412 39.9C410.5 40.5 406.8 41.8 403.8 43C400.7 44.2 396.4 45.8 394.2 46.6C392.1 47.4 389.7 48.3 389.1 48.5C388.5 48.8 387.5 49.2 386.9 49.4C386.3 49.7 384.6 50.4 383.2 51C380.4 52.3 379.5 52.6 377 53.5C376 53.8 374.4 54.5 373.2 55C370.2 56.4 364.2 58.9 362.8 59.5C362.2 59.7 361.1 60.1 360.4 60.4C359.6 60.7 358.5 61.2 357.9 61.4C357.3 61.7 355.9 62.3 354.8 62.8C351.4 64.2 349.3 65.1 348.2 65.5C347.7 65.7 345.2 66.8 342.7 67.9C340.1 69.1 337.9 70 337.6 70C336.9 70 334.5 71.2 334.5 71.6C334.5 72.4 336.1 71.9 346.4 68.6C364.5 62.6 374.4 59.5 381.8 57.4C382.9 57.1 385 56.5 386.5 56C388 55.5 390.1 54.9 391.2 54.6C393.8 53.9 399.4 52.2 403.2 51.1C404.9 50.6 407.3 49.9 408.5 49.5C409.7 49.1 411.8 48.5 413 48.1C414.2 47.7 417.7 46.8 420.8 46C423.8 45.2 427.9 44.1 430 43.6C437.4 41.6 445.8 39.4 447.8 39C448.9 38.7 451.4 38.1 453.5 37.6C455.6 37 458.5 36.3 460 35.9C461.5 35.5 464.1 34.9 465.8 34.5C467.4 34.2 470.6 33.5 472.8 33C480.2 31.3 484.7 30.4 487.2 30C488.6 29.8 491.4 29.3 493.5 28.9C495.6 28.4 499.8 27.6 503 27.1C506.2 26.5 510.9 25.7 513.5 25.2C516.1 24.8 519.9 24.2 522 23.9C524.1 23.7 527.3 23.3 529.2 23C536.1 22 539.8 21.5 543.8 21C546 20.7 549.5 20.3 551.8 20C571.1 17.5 587.4 16.5 612.5 16.1C631.3 15.9 636.9 16.1 656 17.5C665.4 18.2 690.3 21.1 698.8 22.5C704.2 23.4 711.7 24.6 714 25.1C715.2 25.3 717.5 25.7 719 26C724.7 27 726.9 27.4 732.8 28.7C741.7 30.7 743 31 745.8 31.8C748.1 32.5 752.8 33.6 759.2 35C762 35.6 764.2 36.2 768 37.5C769.8 38.1 772.9 39 775 39.6C781.4 41.2 798 46.5 800.2 47.5C800.8 47.8 804.1 48.9 807.5 50C810.9 51.2 814.2 52.3 814.8 52.5C816.1 53.1 820.9 54.8 823.1 55.6C825.1 56.2 825.6 57 824.1 57C822.3 57 825.2 58.5 830.5 60.2C837.5 62.5 842.6 64.4 849 67.1C857.6 70.7 857.3 70.7 860.5 70.3C862.8 70.1 863.5 70.2 863.5 70.6C863.4 71 863.4 71.5 863.4 71.9C863.5 72.8 866.5 74.5 868.1 74.5C870.1 74.5 873.4 73.1 873.7 72.1C874 71.1 874.9 71.1 890 72.3C898.9 73 901.7 73.3 911 74.5C915.3 75 917.7 75.3 930 76.7C933.7 77.2 937.6 77.5 938.6 77.4C939.6 77.4 940.6 77.5 940.8 77.7C941.2 78.1 941.2 78.1 942.2 77.7Z"/><path class="r" d="M1133 150.1C1133 149.5 1126.4 143.2 1121 138.7C1116.1 134.6 1106 127.8 1102 125.9C1093.9 122.1 1087 119 1086.6 119C1086.4 119 1085.3 118.6 1084.2 118.1C1082.2 117.1 1075.6 114.7 1072.8 114C1071.9 113.8 1069.7 113.1 1067.8 112.5C1061.6 110.6 1057.3 109.4 1055 109C1053.8 108.7 1051.7 108.3 1050.5 108C1049.3 107.7 1047 107.3 1045.5 107C1044 106.7 1041.7 106.2 1040.5 105.9C1035.9 105 1033.1 104.5 1029.5 104C1027.4 103.7 1024.5 103.3 1023 103C1019.4 102.3 1011.8 101.3 1001.5 100C999.2 99.7 994.4 99.2 991 99C987.6 98.7 982.3 98.3 979.2 98C957.1 95.9 939.7 95.3 907.4 95.3C871.5 95.2 870.2 95.1 884.9 92.5C886.5 92.2 891.2 91.6 895.5 91.2C899.8 90.7 904.9 90.2 907 89.9C920.5 88.4 935.5 88.2 947.5 89.5C950.1 89.8 955.7 90.3 960 90.8C964.3 91.2 970.2 91.8 973.2 92C976.3 92.2 980.4 92.7 982.5 93C984.6 93.3 988.7 93.8 991.8 94C1005.3 95.2 1014.5 96.2 1018.5 97C1020 97.3 1023.3 97.7 1025.8 98C1033.4 98.9 1038.3 99.6 1045.2 101C1046.6 101.3 1050.3 101.9 1053.5 102.4C1056.7 103 1061.4 103.9 1064 104.5C1066.6 105 1070.4 105.9 1072.5 106.3C1085.5 109 1096.1 112.1 1108.9 117C1110.7 117.7 1117.5 121.1 1121.7 123.5C1125.1 125.4 1131.7 130.3 1134.7 133.1C1135.8 134.2 1136.7 135 1136.8 135C1138.4 135 1131.5 126.8 1126.5 122.8C1118 115.9 1105.5 109.4 1093.5 105.5C1092 105 1089.8 104.3 1088.8 103.9C1087.7 103.5 1085.8 102.9 1084.6 102.6C1083.5 102.3 1081.5 101.7 1080.4 101.4C1079.2 101.1 1077.8 100.7 1077.2 100.5C1076.3 100.1 1073.8 99.4 1071 98.7C1070.3 98.6 1065.4 97.3 1060 95.9C1054.6 94.6 1049.1 93.2 1047.6 93C1044.3 92.4 1039.9 91.5 1037 91C1034.2 90.4 1029.6 89.6 1025.8 89C1024.1 88.7 1021.7 88.3 1020.5 88C1019.3 87.7 1016.5 87.3 1014.2 87C1006.7 86 1003.7 85.5 1001 85C999.5 84.7 996.2 84.2 993.8 84C991.3 83.7 987.7 83.3 985.8 83C983.8 82.8 980.3 82.3 978 82C975.7 81.7 971.8 81.3 969.5 81C962.4 80.2 955.7 79.1 950.8 77.8C949.1 77.4 946.8 77 945.7 77C944.5 77 943.4 76.8 943.3 76.6C943.2 76.4 941.5 76.2 939.7 76.1C936.2 76 923.8 74.6 911 73C901 71.7 898.7 71.5 888.5 70.8C882.6 70.3 876 69.7 873.8 69.4C871.5 69.1 866.8 68.8 863.2 68.8C859.7 68.7 856.3 68.5 855.8 68.3C855.2 68.1 854.3 67.7 853.8 67.5C853.2 67.3 851.9 66.8 850.8 66.3C849.6 65.9 847.5 65 846 64.3C832.1 58 812.4 54 795 54C788.7 54 779.9 54.8 773.4 56C771.8 56.3 769.3 56.7 767.9 57C762.6 57.9 761.7 58.1 759 59C757.5 59.5 755.2 60.1 754 60.5C749.8 61.7 740 65 736.1 66.5C735 67 733.5 67.6 731.4 68.4C729.4 69.3 726.3 70.6 723.2 72C720.3 73.4 717.4 74.7 713 76.6C709.8 78 703.3 81.1 688.5 88.4C681.5 91.8 670.6 97.2 664.2 100.3C651.7 106.4 646.2 109 645.8 109C645.6 109 644.1 109.7 642.2 110.5C640.4 111.3 638.9 112 638.7 112C638.6 112 637.1 112.6 635.4 113.4C633.7 114.2 631.4 115.2 630.2 115.5C629.1 115.9 628 116.4 627.8 116.6C627.5 116.8 627 117 626.6 117C626.3 117 624.9 117.5 623.6 118C619.7 119.8 619.4 119.9 616 121C614.2 121.5 611 122.6 608.8 123.3C606.5 124 604 124.8 603 125.1C602 125.3 600.5 125.8 599.5 126.1C597.7 126.6 591.5 128.2 587.8 129C586.6 129.3 584.4 129.7 582.8 130C581.1 130.2 578.1 130.7 576 131C570.4 131.8 568.8 132.2 568.6 132.8C568.4 133.4 575 133.3 583.2 132.5C594.8 131.4 599.4 130.9 602.2 130.5C603.9 130.2 606.9 129.8 609 129.5C614.3 128.7 618.4 128 621 127.4C622.2 127.2 624.1 126.7 625.2 126.5C630.3 125.4 637.1 123.8 640.2 122.9C642.2 122.4 645.7 121.5 648 120.9C650.3 120.3 654.4 119.2 657 118.4C659.6 117.6 662.1 117 662.5 117C663 117 663.5 116.8 663.8 116.6C664 116.3 666.3 115.6 668.8 115C671.2 114.4 673.5 113.7 673.8 113.5C674 113.3 674.8 113 675.5 112.9C677.1 112.6 688.5 109.5 696.6 107.3C699.4 106.5 700.4 106.2 704 105.4C705.2 105.1 707.7 104.5 709.5 104C711.3 103.5 714 102.8 715.5 102.5C720.2 101.5 726.7 100 728.3 99.5C729.1 99.2 730.7 99 731.9 99C733 99 734.1 98.8 734.2 98.6C734.3 98.4 736.4 97.9 738.9 97.5C741.3 97.2 743.6 96.8 744 96.6C744.4 96.5 745.8 96.2 747 96C748.2 95.8 750.5 95.4 752.1 95.1C760.5 93.4 767 92.4 774.8 91.5C777.5 91.2 780.9 90.7 782.2 90.5C783.6 90.2 786.3 89.9 788.2 89.8C790.2 89.6 794 89.2 796.8 89C808.3 87.7 816.6 87.4 841.2 87.2C866.5 87 891.1 87.4 891.8 88.1C892.5 88.8 891.8 88.9 884.7 89.7C880.9 90.2 876.4 90.7 874.8 91C873.1 91.3 869.7 91.7 867.2 92C864.8 92.3 861.4 92.7 859.8 93C853.6 94.1 850.8 94.5 847.1 95.1C845 95.3 841.9 95.8 840.2 96C838.6 96.3 835.5 96.7 833.2 97C831 97.3 827.9 97.7 826.2 98C822.3 98.6 811.5 100.4 808 101C806.5 101.3 804.1 101.7 802.6 101.8C801.2 102 799.9 102.3 799.7 102.6C799.6 102.8 798.7 103 797.8 103C797 103 794.7 103.4 792.7 103.8C790.8 104.2 786.2 105.2 782.5 106C778.8 106.8 773.6 107.9 771 108.5C768.4 109.1 765.2 109.8 764 110C761.5 110.5 758 111.3 749.8 113.5C746.7 114.3 742.1 115.4 739.5 116C729 118.4 724.5 120.4 730.9 119.8C735.3 119.4 746.3 118.6 756 118C765.3 117.5 778.2 116.7 789.8 116C807.8 114.8 833.3 114.3 873.5 114.3C921.6 114.2 936.7 114.7 967 117C971 117.3 977.3 117.8 981 118C987.7 118.4 1003.6 119.9 1012.2 121C1014.7 121.3 1019.6 121.9 1023 122.3C1026.4 122.7 1030.5 123.3 1032 123.5C1033.5 123.8 1037.5 124.4 1040.8 124.8C1044 125.2 1048.1 125.7 1049.8 126C1061.4 127.8 1080.1 131.6 1082.2 132.5C1083.1 132.8 1086.3 133.6 1092.5 135C1094.1 135.4 1100.3 137 1103.8 138C1105.7 138.5 1115.5 141.9 1116.8 142.5C1120.5 144.1 1129.5 148.6 1130.8 149.5C1132.4 150.6 1133 150.7 1133 150.1ZM865.4 72L864.2 71L868.4 71C872.7 71 873.6 71.5 870.9 72.5C868.6 73.3 866.8 73.1 865.4 72Z"/></svg>
   <address class="card">
     <p class="kicker">Call</p>
     <ul class="links">
@@ -116,6 +120,7 @@ html.intro #car-wipe-rect,html.intro #underline-wipe-rect{transform:scaleX(0);an
       <li><a href="https://www.google.com/maps/search/?api=1&amp;query=909%208th%20Ave%2C%20Regina%2C%20SK%20S4N%206S3">909 8th Ave, Regina, SK&nbsp;&nbsp;S4N&nbsp;6S3</a></li>
     </ul>
   </address>
+  </div>
 </main>
 <footer>
   <p>Used cars in Regina, bought, sold and traded on 8th Ave.</p>
